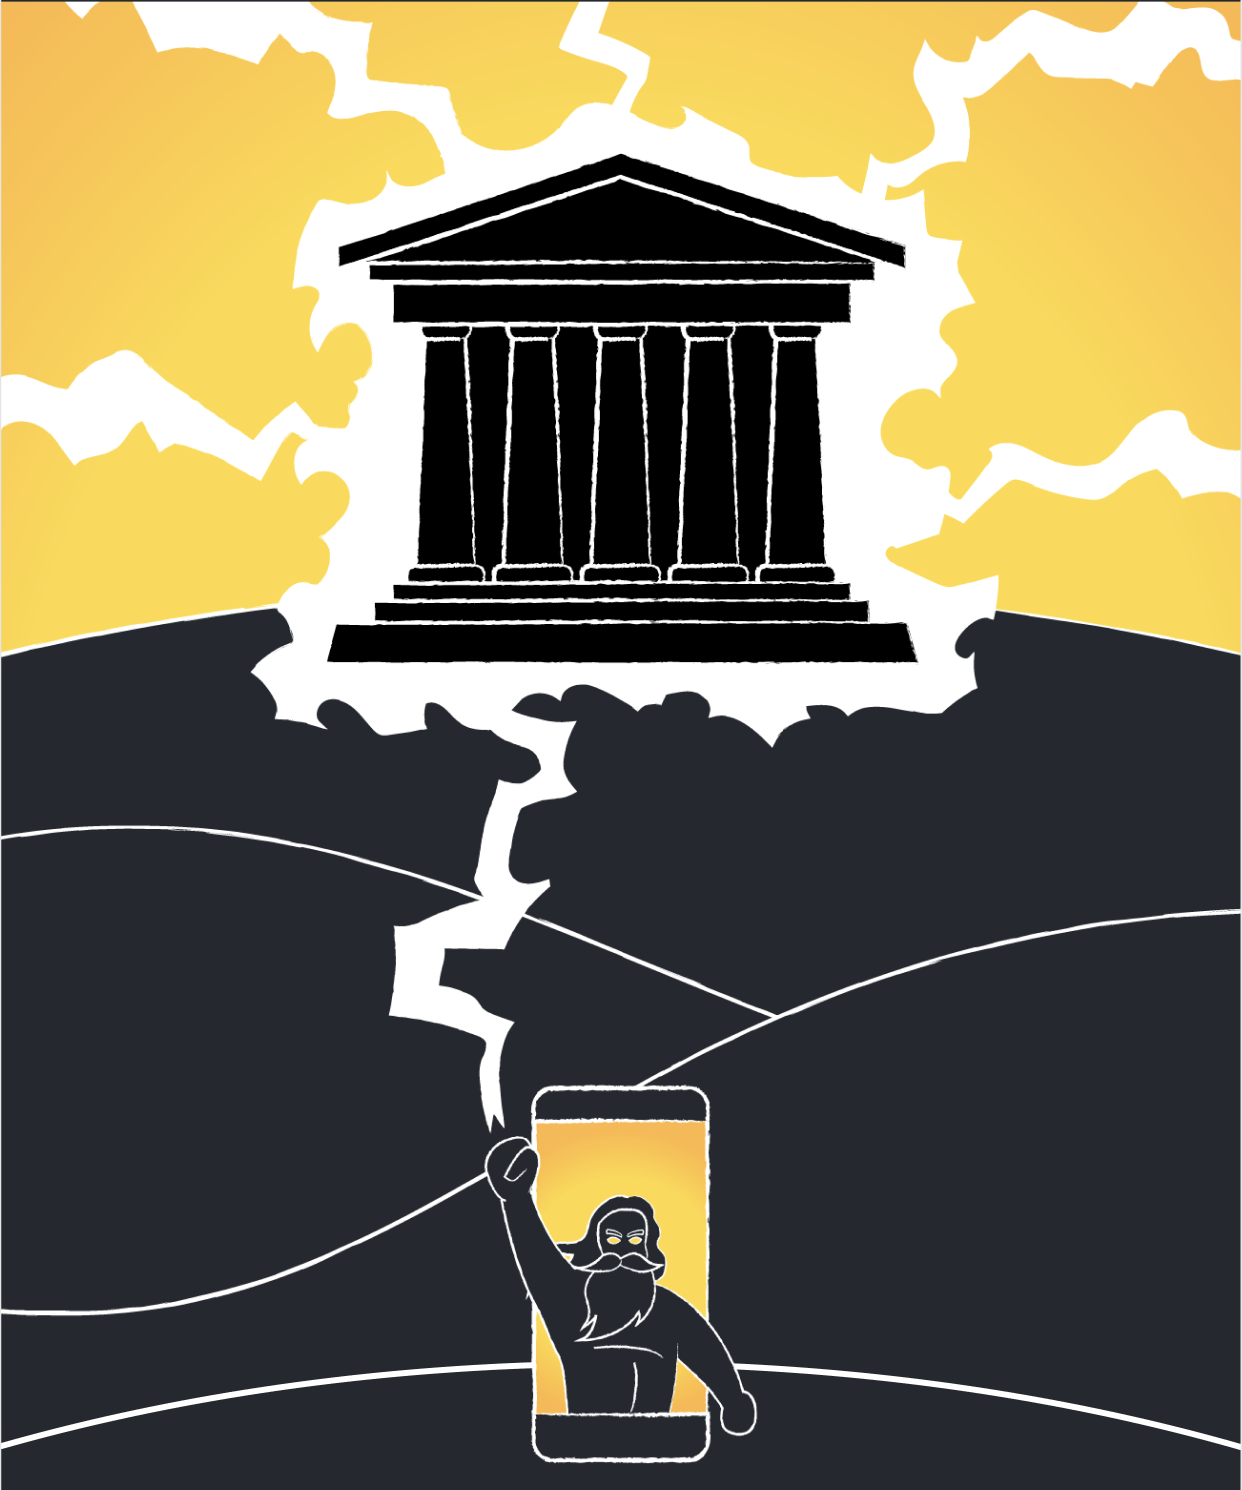
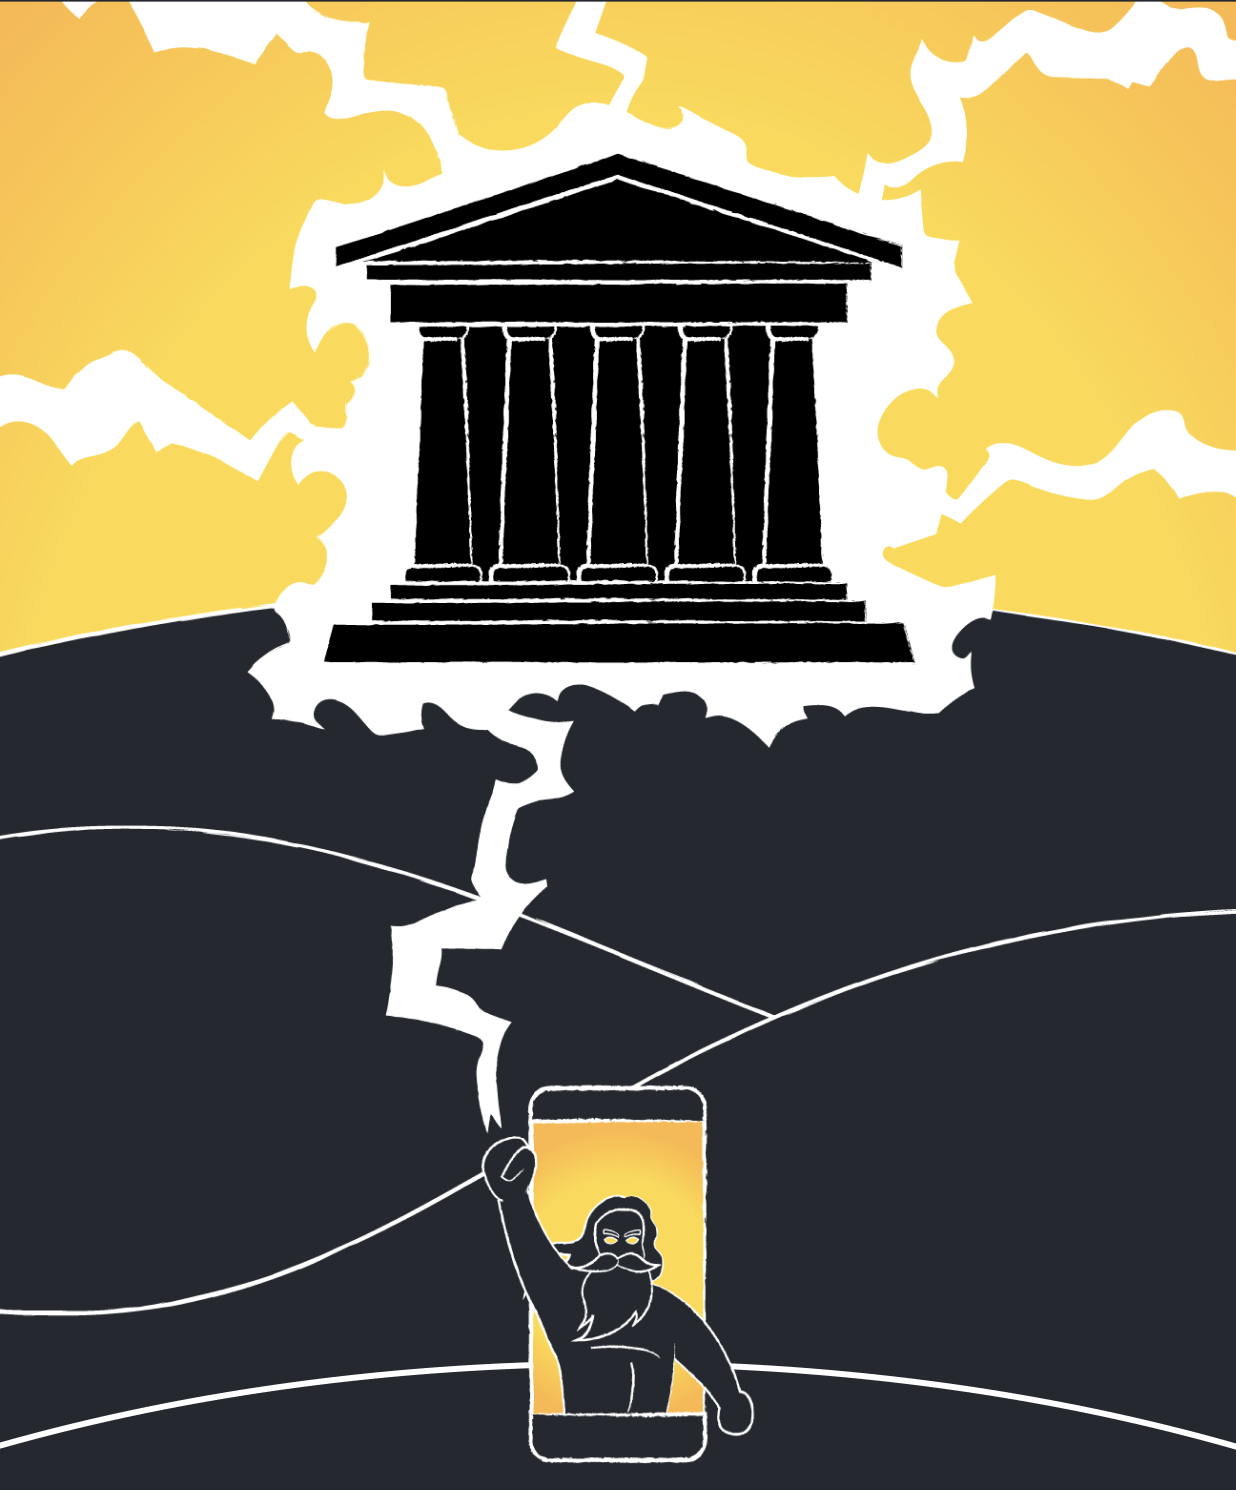
Intro tour enhancements: iPod Touch 7th gen (#844)
Intro tour enhancements

undo wallet changes

Remove unused Pagination style

diff --git a/views/Intro.tsx b/views/Intro.tsx
@@ -28,6 +28,7 @@ export default class Intro extends React.Component<IntroProps, IntroState> {
     constructor(props: any) {
         super(props);
         this.screenWidth = Dimensions.get('window').width;
+        this.screenHeight = Dimensions.get('window').height;
         this.state = {
             activeIndex: 0,
             carouselItems: [
@@ -55,50 +56,66 @@ export default class Intro extends React.Component<IntroProps, IntroState> {
         };
     }
 
-    _renderItem({ item }: { item: any }) {
-        return (
+    render() {
+        const { navigation } = this.props;
+        const { carouselItems, activeIndex } = this.state;
+
+        const renderItem = ({ item }: { item: any }) => (
             <View
                 style={{
-                    borderRadius: 5,
-                    height: 450
+                    borderRadius: 5
                 }}
             >
                 <Image
                     source={item.illustration}
-                    style={{ width: this.screenWidth, height: 520 }}
+                    style={{
+                        width: this.screenWidth,
+                        height: this.screenHeight - 200
+                    }}
                 />
-                <Text
+                <View
                     style={{
-                        fontSize: 23,
-                        color: themeColor('text'),
-                        fontFamily: 'Lato-Regular',
-                        alignSelf: 'center',
-                        paddingTop: 10
+                        backgroundColor: themeColor('background'),
+                        width: '100%',
+                        bottom: 45
                     }}
                 >
-                    {item.title}
-                </Text>
-                <Text
-                    style={{
-                        fontSize: 18,
-                        color: themeColor('secondaryText'),
-                        fontFamily: 'Lato-Regular',
-                        alignSelf: 'center',
-                        paddingLeft: 10,
-                        paddingRight: 10,
-                        paddingTop: 6,
-                        paddingBottom: 8
-                    }}
-                >
-                    {item.text}
-                </Text>
+                    <Text
+                        style={{
+                            fontSize: 23,
+                            color: themeColor('text'),
+                            fontFamily: 'Lato-Regular',
+                            alignSelf: 'center',
+                            paddingTop: 10
+                        }}
+                    >
+                        {item.title}
+                    </Text>
+                    <Text
+                        style={{
+                            fontSize: 18,
+                            color: themeColor('secondaryText'),
+                            fontFamily: 'Lato-Regular',
+                            alignSelf: 'center',
+                            paddingLeft: 10,
+                            paddingRight: 10,
+                            paddingTop: 6,
+                            paddingBottom: 8
+                        }}
+                    >
+                        {item.text}
+                    </Text>
+                    {item.text ===
+                        localeString('views.Intro.carousel4.text') && (
+                        <Button
+                            title={localeString('views.Intro.getStarted')}
+                            onPress={() => navigation.navigate('Settings')}
+                        />
+                    )}
+                </View>
             </View>
         );
-    }
 
-    render() {
-        const { navigation } = this.props;
-        const { carouselItems, activeIndex } = this.state;
         return (
             <SafeAreaView
                 style={{
@@ -118,20 +135,13 @@ export default class Intro extends React.Component<IntroProps, IntroState> {
                         data={carouselItems}
                         sliderWidth={this.screenWidth}
                         itemWidth={this.screenWidth}
-                        itemHeight={600}
-                        renderItem={this._renderItem}
+                        renderItem={renderItem}
                         onSnapToItem={(index) =>
                             this.setState({ activeIndex: index })
                         }
                         hasParallaxImages={false}
                     />
                 </View>
-                {activeIndex === 3 && (
-                    <Button
-                        title={localeString('views.Intro.getStarted')}
-                        onPress={() => navigation.navigate('Settings')}
-                    />
-                )}
                 <Pagination
                     dotsLength={carouselItems.length}
                     activeDotIndex={activeIndex}
